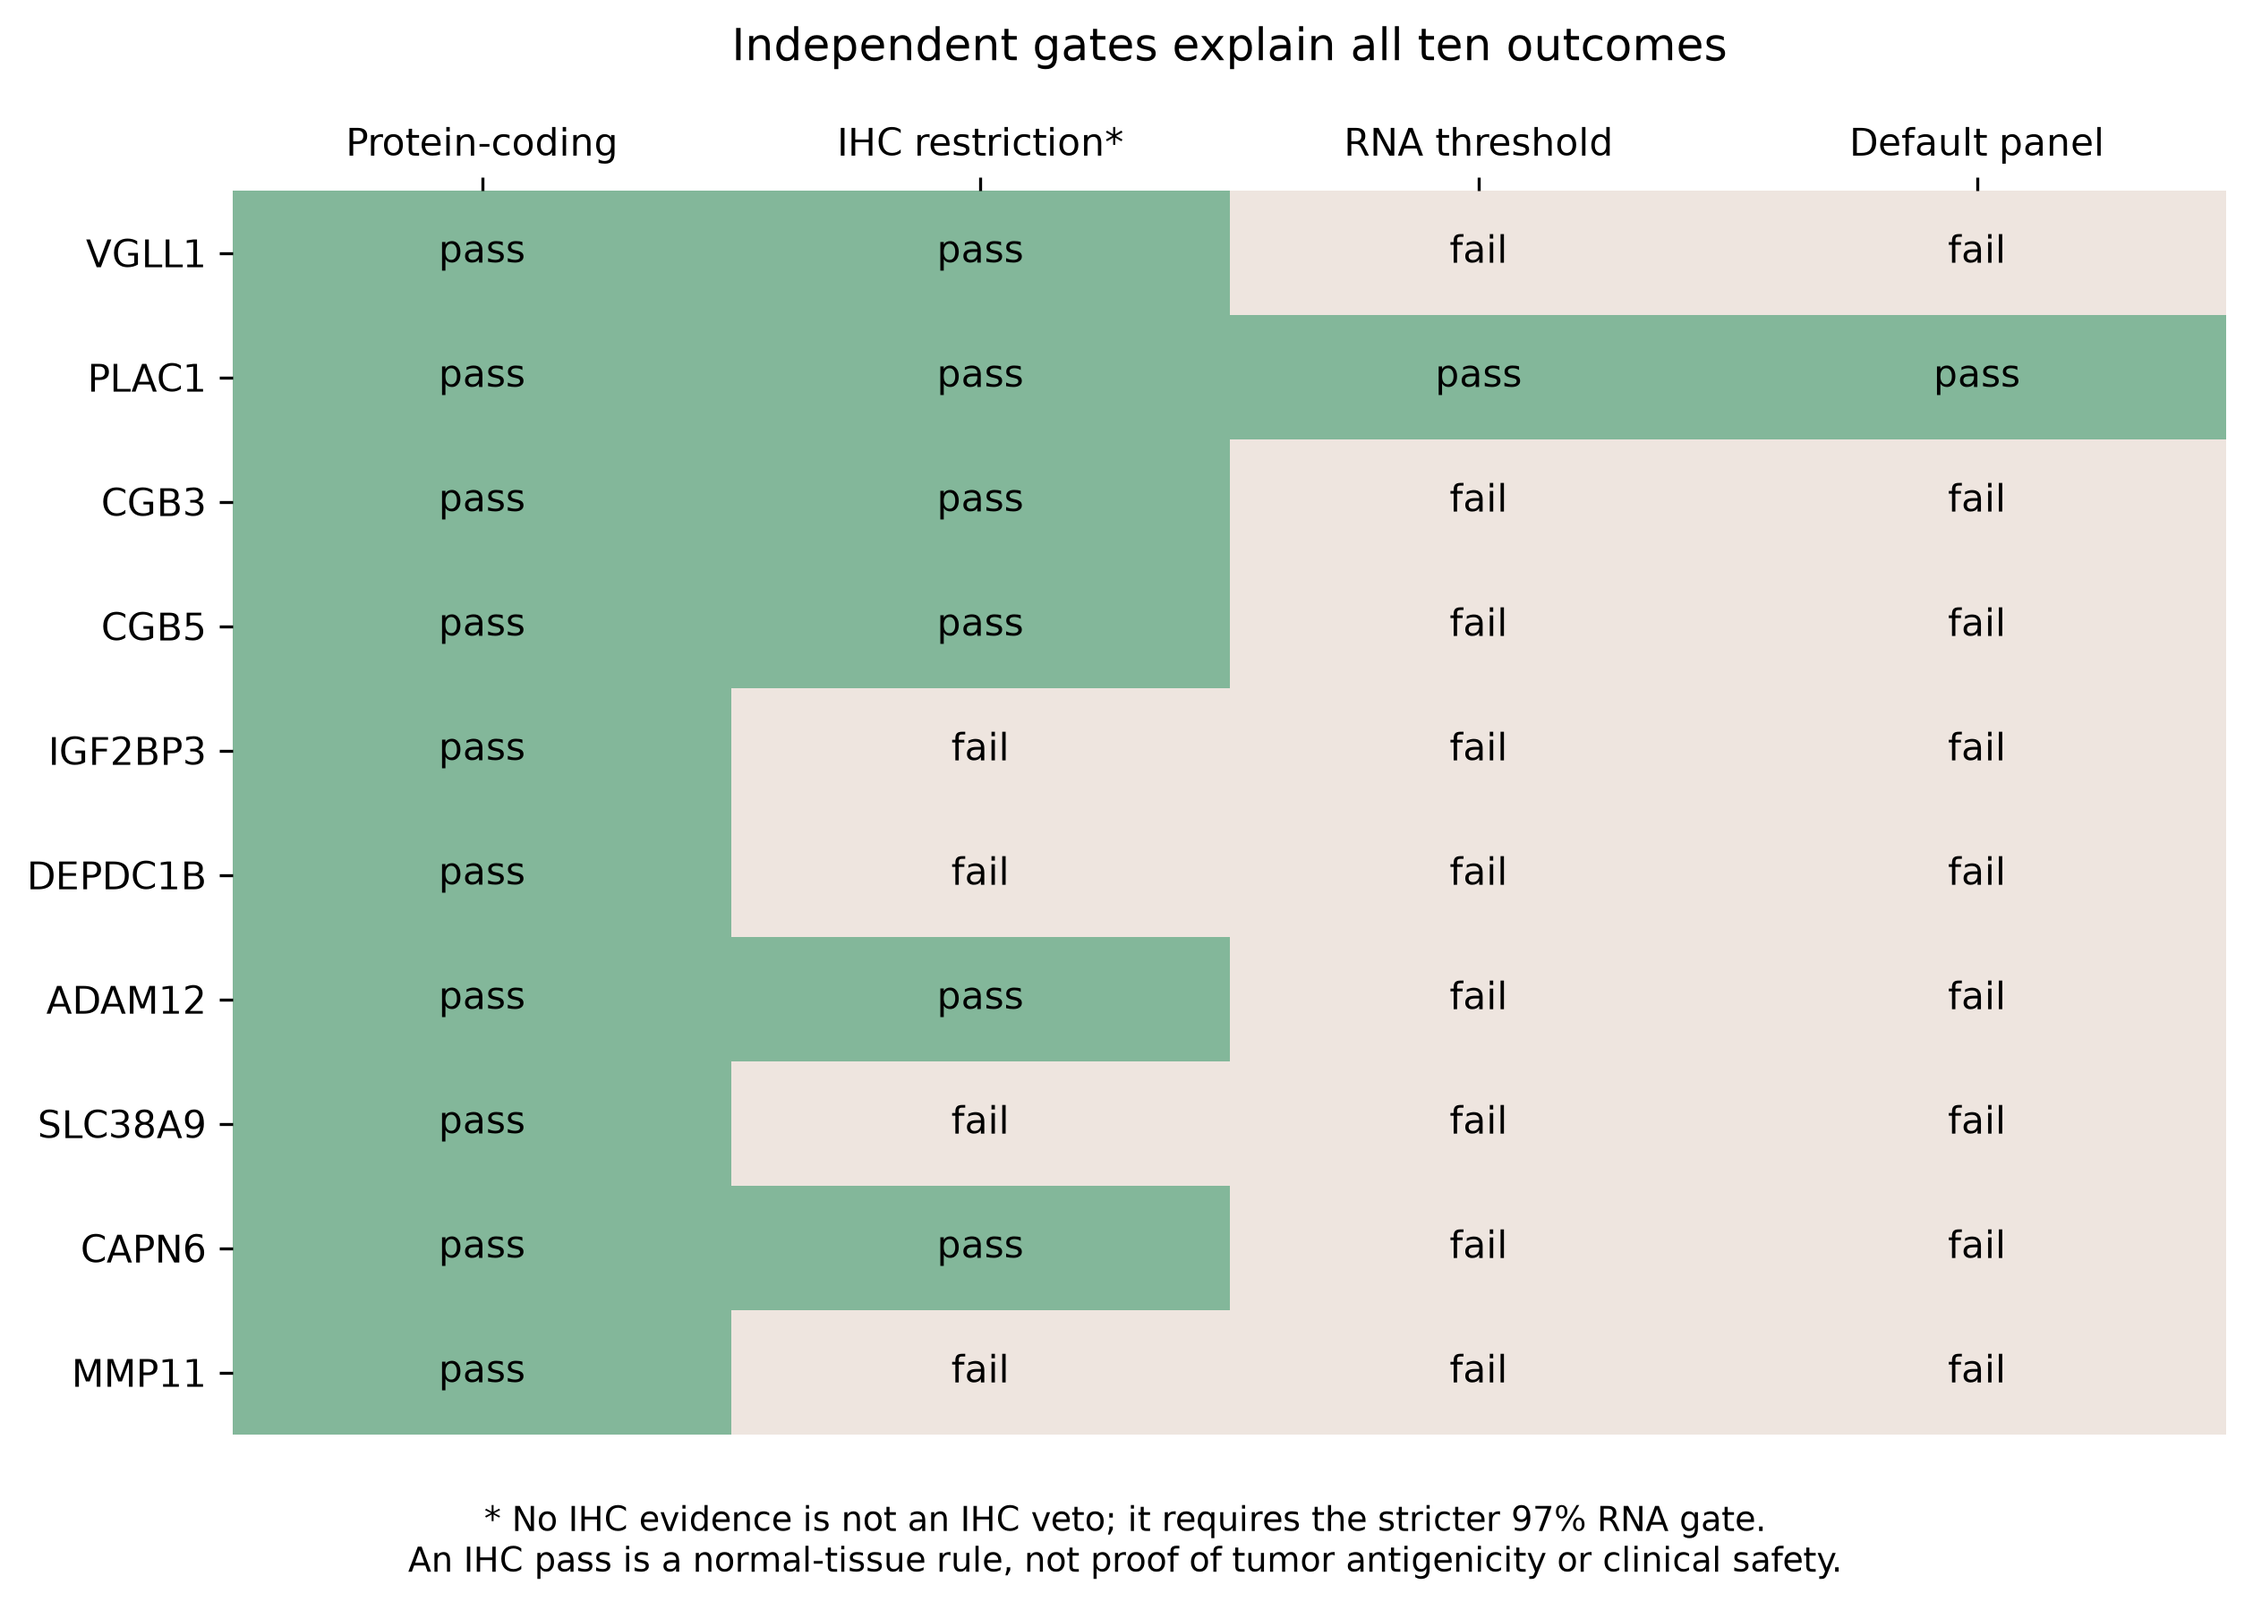
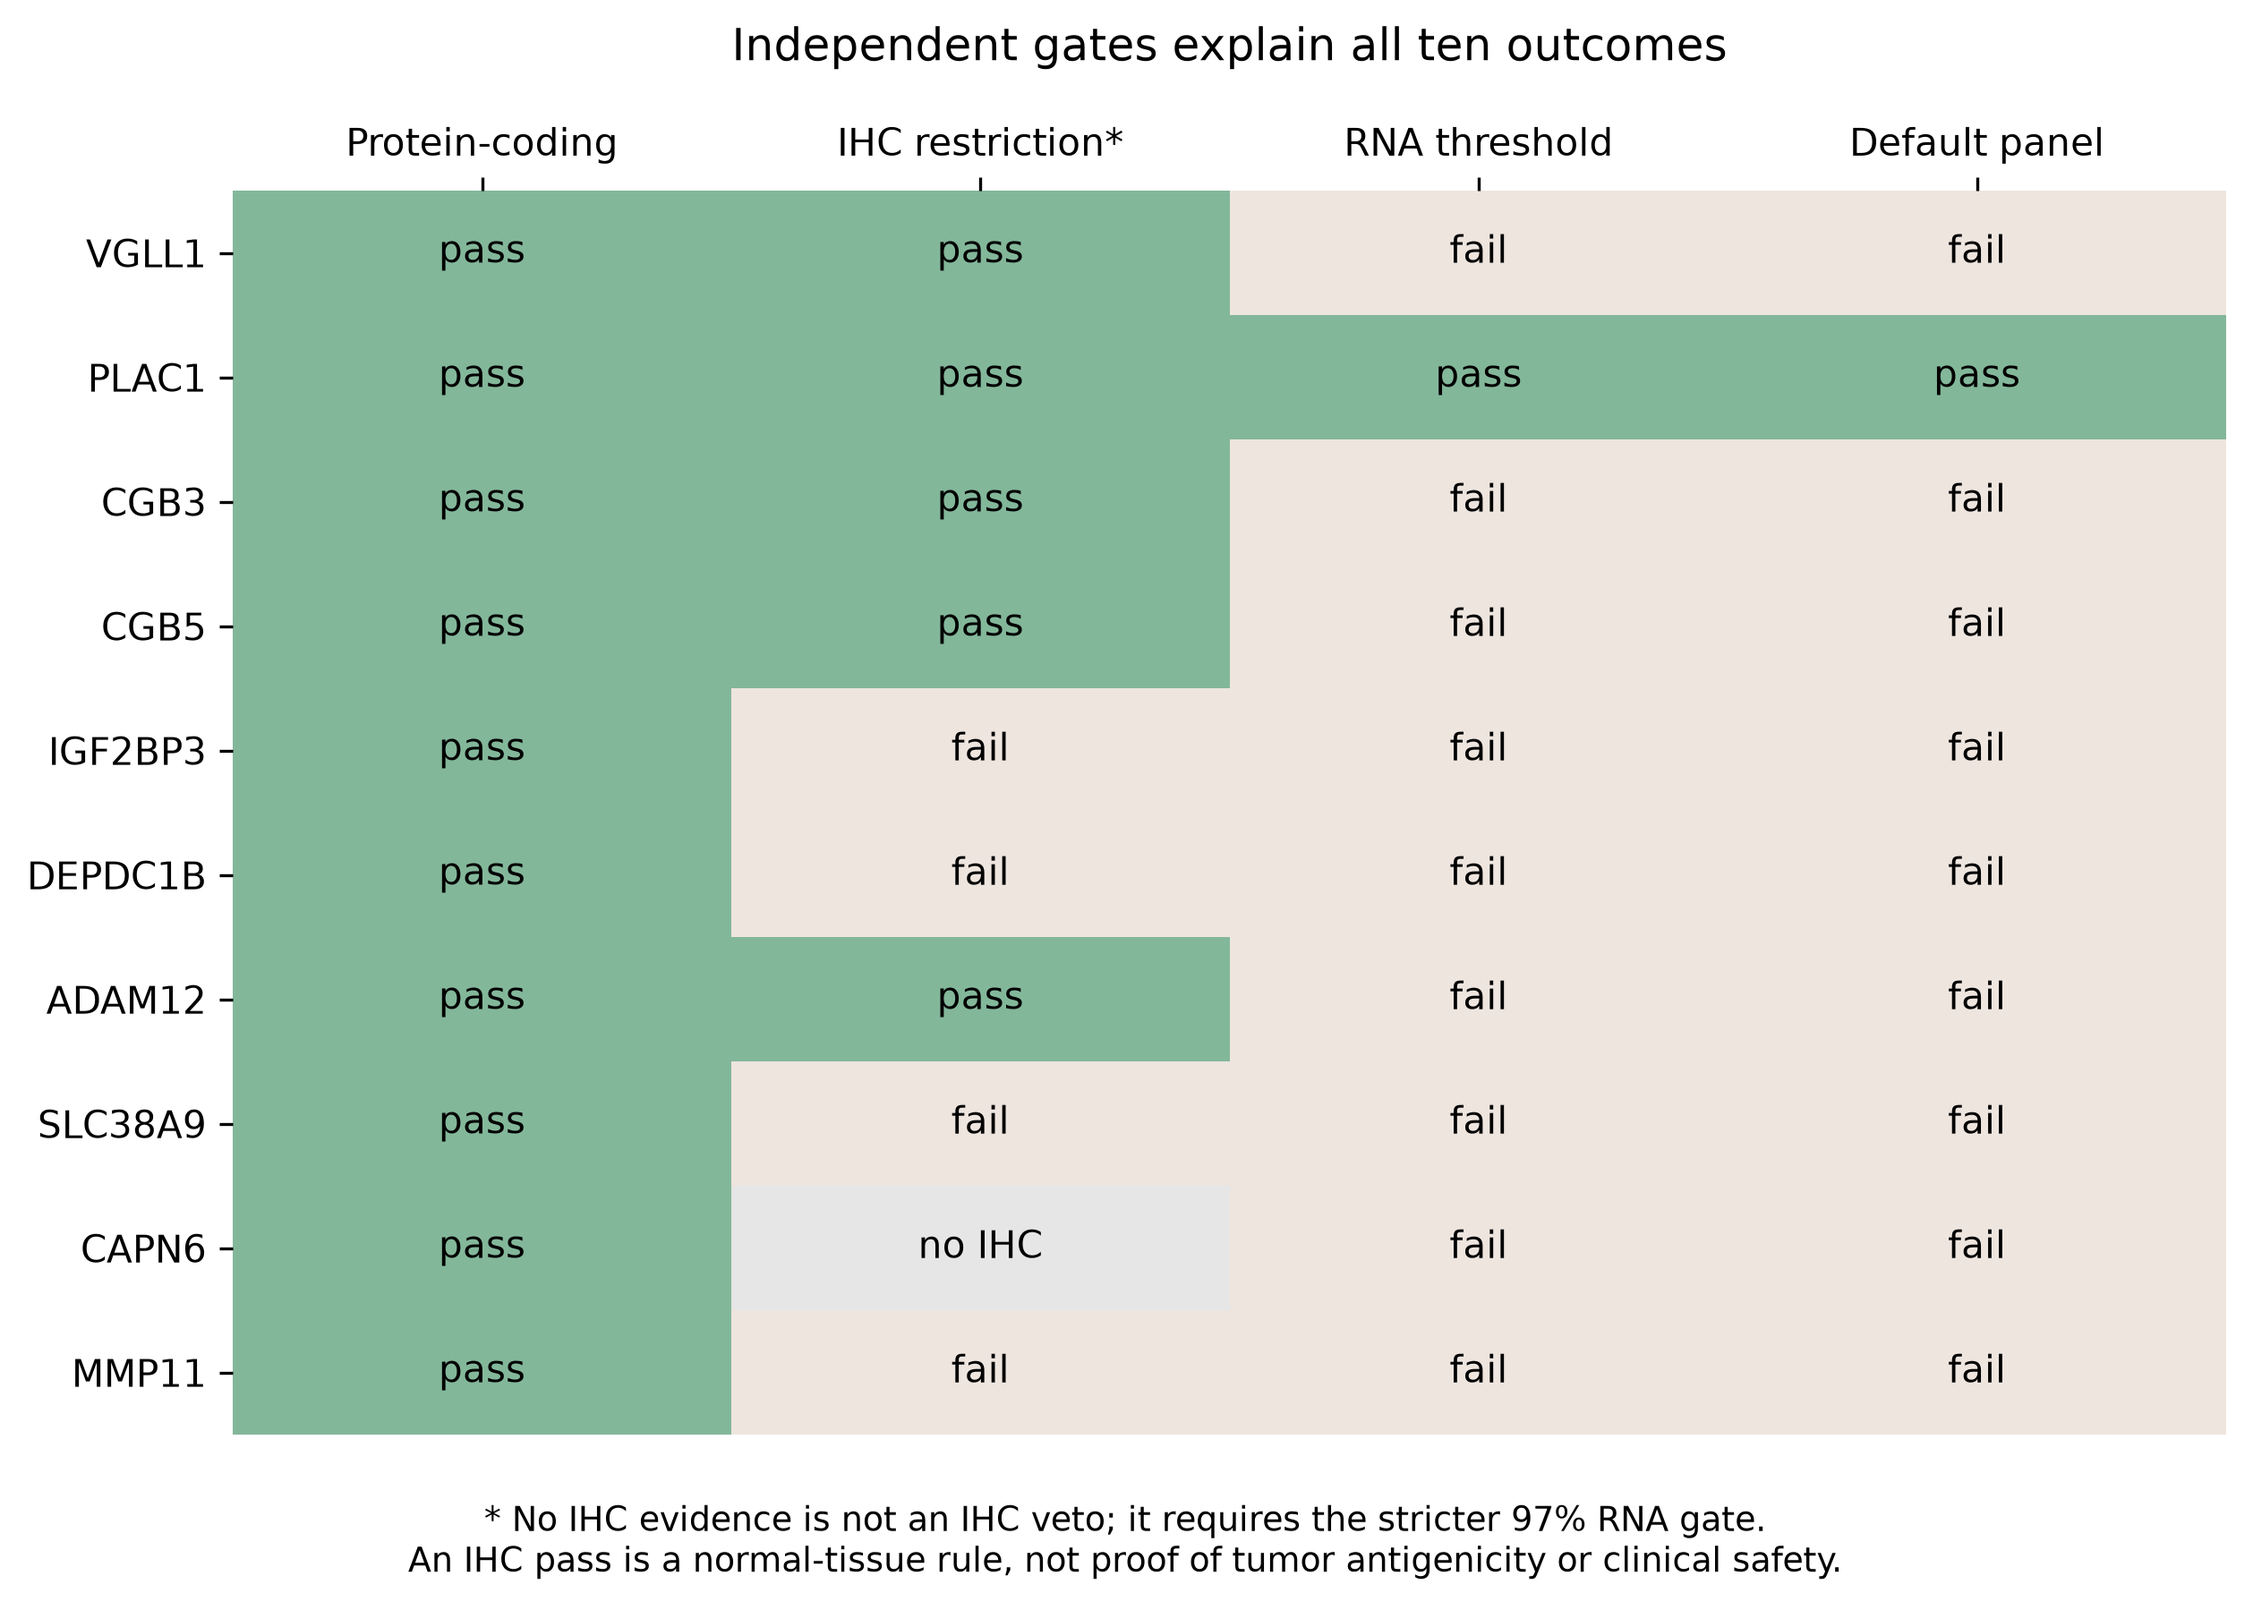
Label absent CAPN6 IHC explicitly in the audit figure

Changed region(s): [[0.3099, 0.716, 0.5578, 0.8405]]

diff --git a/scripts/plot_cta_bradley_audit.py b/scripts/plot_cta_bradley_audit.py
@@ -92,13 +92,27 @@ def plot(out):
     fig.tight_layout()
     save(fig, out / "bradley-rna-gates")
     columns = ["coding_gate_pass", "protein_gate_pass", "rna_gate_pass", "default_panel"]
-    values = audit[columns].astype(int).to_numpy()
+    values = audit[columns].astype(float).to_numpy()
+    values[~audit.has_protein_evidence.to_numpy(), 1] = np.nan
     fig, ax = plt.subplots(figsize=(8.5, 6))
     from matplotlib.colors import ListedColormap
 
-    ax.imshow(values, cmap=ListedColormap(["#eee5df", "#83b79a"]), vmin=0, vmax=1, aspect="auto")
+    ax.imshow(
+        values,
+        cmap=ListedColormap(["#eee5df", "#83b79a"]).with_extremes(bad="#e6e6e6"),
+        vmin=0,
+        vmax=1,
+        aspect="auto",
+    )
     for (i, j), val in np.ndenumerate(values):
-        ax.text(j, i, "pass" if val else "fail", ha="center", va="center", fontsize=10)
+        ax.text(
+            j,
+            i,
+            "no IHC" if np.isnan(val) else ("pass" if val else "fail"),
+            ha="center",
+            va="center",
+            fontsize=10,
+        )
     ax.set_xticks(
         range(4), ["Protein-coding", "IHC restriction*", "RNA threshold", "Default panel"]
     )
